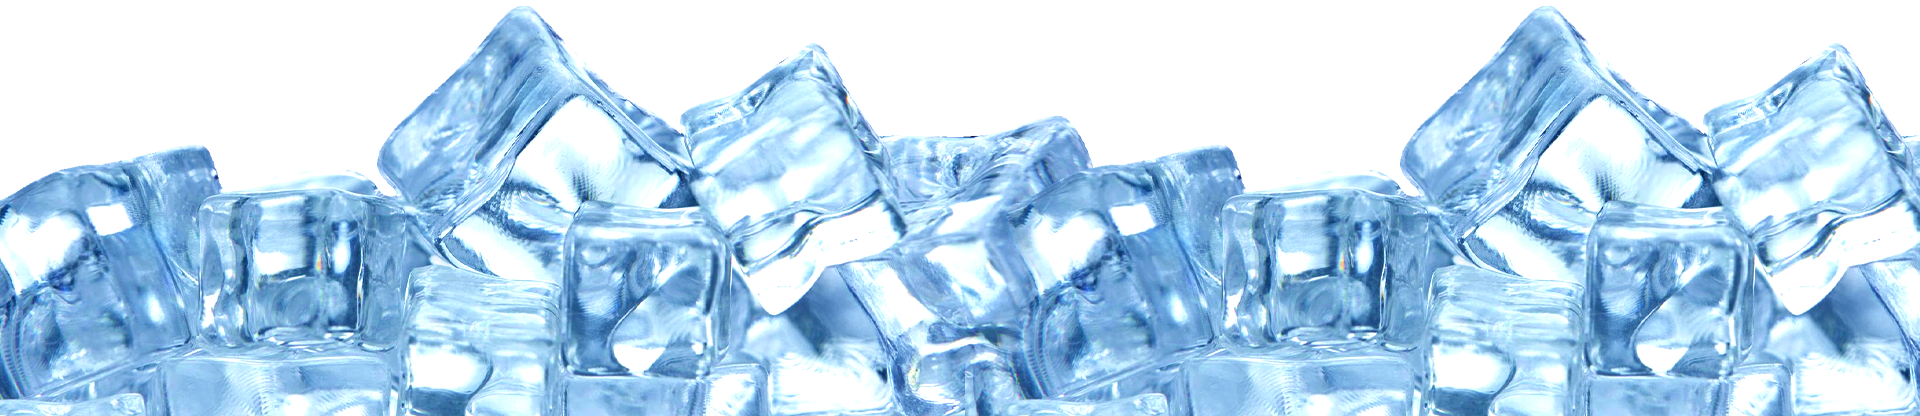
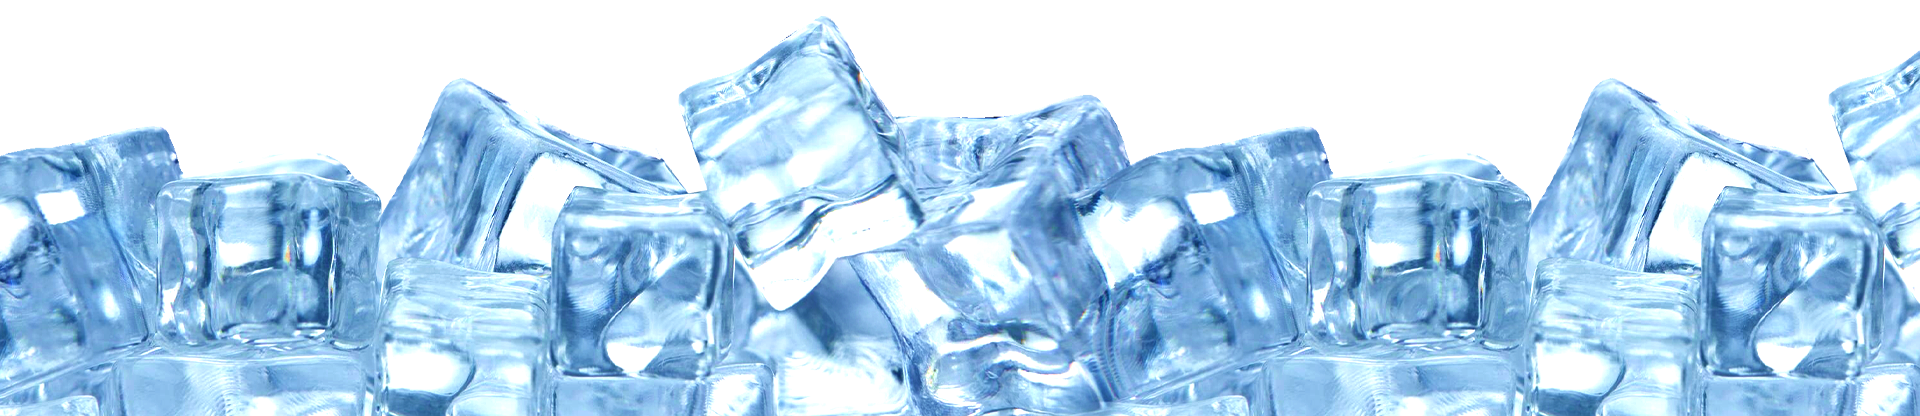
update coconut water background positioning and contact email

diff --git a/css/responsive.css b/css/responsive.css
@@ -1,5 +1,3 @@
-@media only screen and (max-width: 1399px) {}
-
 @media only screen and (max-width: 1199px) {
     .highlight-wrap {
         height: 250px;
@@ -34,6 +32,10 @@
     .floating-ice-3 {
         top: 52%;
         left: 10%;
+    }
+
+    .cocoanut-water-bg-ice {
+        top: 550px;
     }
 }
 
@@ -79,6 +81,10 @@
 
     .product-coconut-bg {
         clip-path: url(#smoothBottomCurve-sm);
+    }
+
+    .cocoanut-water-bg-ice {
+        top: 950px;
     }
 }
 
@@ -138,6 +144,7 @@
     }
 
     .cocoanut-water-bg-ice {
+        top: auto;
         bottom: -50px;
     }
 }
@@ -165,7 +172,7 @@
     }
 
     .cocoanut-water-bg-ice {
-        bottom: -10px;
+        bottom: -15px;
     }
 }
 

diff --git a/css/style.css b/css/style.css
@@ -776,7 +776,7 @@ iframe {
 
 .cocoanut-water-bg-ice {
     position: absolute;
-    bottom: -100px;
+    top: 500px;
     left: 0;
     width: 100%;
     z-index: -1;
@@ -804,7 +804,7 @@ iframe {
 .floating-ice-3 {
     position: absolute;
     top: 20%;
-    left: 71%;
+    left: 75%;
     /* transform: translate(-50%, -50%); */
     width: 150px;
     animation: float 4s ease-in-out infinite;

diff --git a/inc/slider.php b/inc/slider.php
@@ -92,7 +92,7 @@
                     <div class="bg-image" style="background-image: url('img/home/slider_2.jpg');"></div>
                     <div class="slider-content">
                         <div class="upper-header">CRAFTED IN JAPAN</div>
-                        <h1>Make the<br> Moment Sweeter</h1>
+                        <h1>Cherish Yourself,<br> Delight Others</h1>
                         <button class="button-white-fill">COMING SOON</button>
                     </div>
                 </div>

diff --git a/find-us.php b/find-us.php
@@ -29,7 +29,7 @@
 
             <div class="col-md-4 d-flex flex-column align-items-center border-start-md border-end-md">
                 <div class="upper-header">Contact Us</div>
-                <a href="mailto:contact@example.com">contact@example.com</a>
+                <a href="mailto:inquiry@orchardbc.com">inquiry@orchardbc.com</a>
                 <a href="tel:+17782977108">+1 (778) 297-7108</a>
             </div>
 

diff --git a/inc/footer.php b/inc/footer.php
@@ -6,7 +6,7 @@
             </div>
 
             <div class="col-md-4 d-flex flex-column justify-content-center align-items-center border-start-md border-end-md">
-                <a href="mailto:contact@example.com">contact@example.com</a>
+                <a href="mailto:inquiry@orchardbc.com">inquiry@orchardbc.com</a>
                 <a href="tel:+17782977108">+1 (778) 297-7108</a>
             </div>
 
